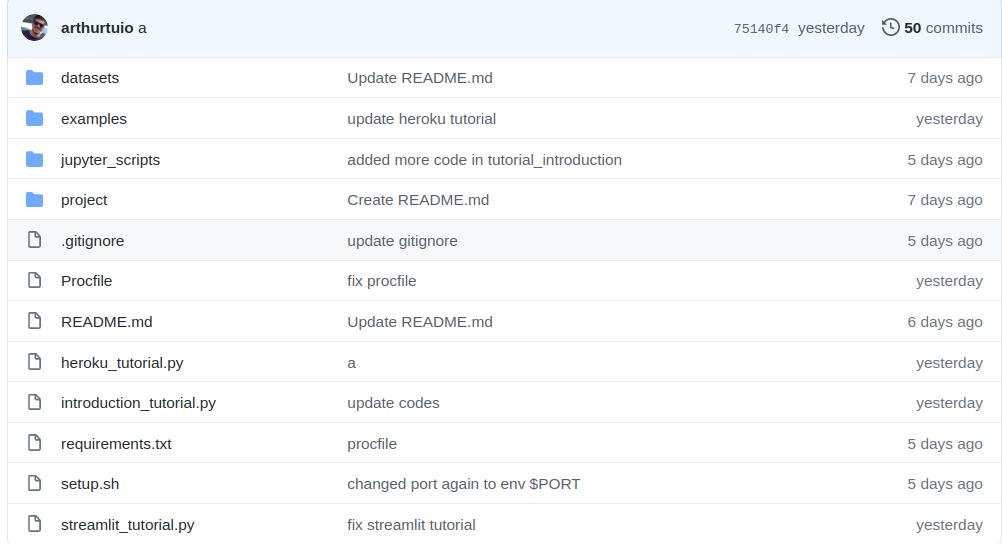
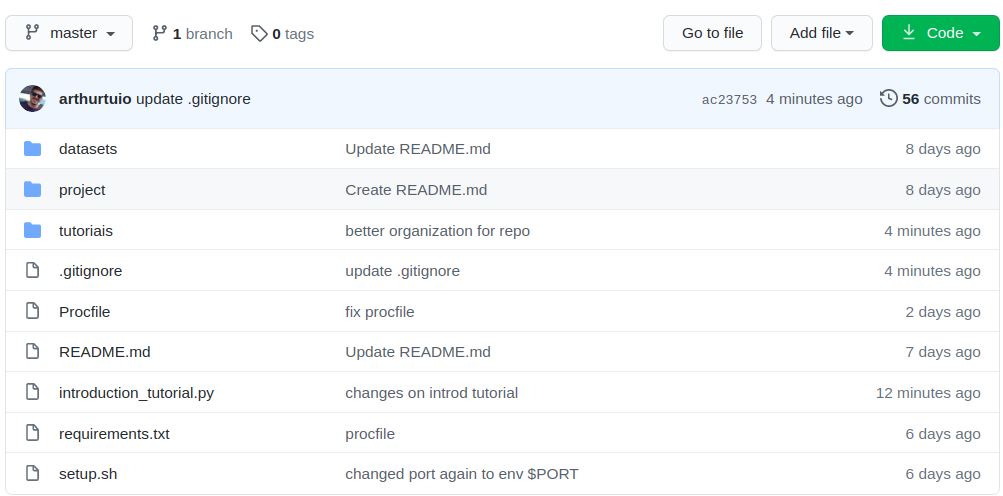
update tutorials

diff --git a/tutoriais/examples/portugues/heroku/config_github_repo.py b/tutoriais/examples/portugues/heroku/config_github_repo.py
@@ -1,7 +1,7 @@
 import streamlit as st
 
 global images_folder
-images_folder = "/tutoriais/examples/portugues/heroku/imagens/"
+images_folder = "examples/portugues/heroku/imagens/"
 
 
 class ConfigGithubRepo:
@@ -13,25 +13,103 @@ class ConfigGithubRepo:
             Bom, você já deve imaginar que usaremos de base este repo aqui: 
             https://github.com/arthurtuio/streamlit-heroku-python-br2020
             
-            **Os arquivos que são necessários para o deploy do heroku são:**
-            - Procfile
-            - setup.sh
-            - O código python (`.py`) que contém a aplicação do streamlit
-            que você deseja que vá para o ar.
-            
-            É sobre cada um destes arquivos que iremos falar na sequência:
+            ________
         """)
+        st.image(
+            image=images_folder + "repo-1.png",
+            caption="Os arquivos do repo",
+            width=800
+        )
+
+        st.markdown("""
+            Primeiro iremos falar das pastas, depois brevemente dos arquivos 
+            auxiliares do repo, que são:
+            - `.gitignore`
+            - `README.md`
+            - `requirements.txt`
+            
+            Após isso falaremos muito brevemente sobre o `introduction_tutorial.py`.
+            
+            Por fim, dos arquivos que o Heroku irá usar, que são:
+            - `Procfile`
+            - `setup.sh`
+            
+            _____________
+        """)
+
+        lista_topicos = [
+            "Pastas: datasets, project e tutoriais",
+            "Arquivos auxiliares do repo: .gitignore, README e requirements.txt",
+            "introduction_tutorial.py",
+            "Heroku: Procfile",
+            "Heroku: setup.sh"
+        ]
 
         passo_tutorial = st.selectbox(
             "Selecione o arquivo que deseja entender",
-            ("Procfile", "setup.sh", "Código em Python da aplicação")
+            lista_topicos
         )
 
-        if passo_tutorial == "Procfile":
+        if passo_tutorial == lista_topicos[0]:
+            self._understanding_folders()
+
+        elif passo_tutorial == lista_topicos[1]:
+            self._understanding_aux_files()
+
+        elif passo_tutorial == lista_topicos[2]:
+            self._understanding_intro_tutorial()
+
+        elif passo_tutorial == lista_topicos[3]:
             self._understanding_procfile()
 
-        elif passo_tutorial == "setup.sh":
+        elif passo_tutorial == lista_topicos[4]:
             self._understanding_setup_sh()
+
+    @staticmethod
+    def _understanding_folders():
+        st.markdown("""
+            ## Pastas do repo ##
+            
+            O que cada pasta significa:
+            
+            - datasets: É a pasta que armazena 3 tabelas, que poderão ser usadas na hora do desenvolvimento
+            do projeto;
+            
+            - project: Pasta criada para você adicionar o código do seu projeto depois!
+            
+            - tutoriais: Pasta que armazena os tutoriais do Streamlit, Github e Heroku que foram apresentados,
+            e todos os arquivos auxiliares usados pelos mesmos.
+        """)
+
+    @staticmethod
+    def _understanding_aux_files():
+        st.markdown("""
+            ## Arquivos auxiliares ##
+            
+            O que cada arquivo significa:
+            
+            - `.gitignore`: Criamos este arquivo para fazer com que o github ignore arquivos. Muito útil
+            para não subirmos, por exemplo, a pasta do ambiente virtual que usamos localmente para o repo.
+            
+            - `README.md`: Arquivo que é aberto no github automaticamente, excelente para
+            descrever o repositório ou como realizar alguma configuração para o mesmo.
+            
+            - `requirements.txt`: Arquivo de texto que contém o nome de todas as bibliotecas necessárias para
+            a execução do conteúdo do repositório.
+        """)
+
+    @staticmethod
+    def _understanding_intro_tutorial():
+        st.markdown("""
+            ## introduction_tutorial.py ##
+
+            Esse arquivo, que é um script em Python, é o código que foi usado para criar este site:
+            - https://streamlit-heroku-python-br2020.herokuapp.com/
+            
+            De todos os arquivos deste repositório, este foi o escolhido, pois é a introdução
+            do tutorial que vai te ensinar a como fazer o mesmo com qualquer script python!
+
+        """)
 
     @staticmethod
     def _understanding_procfile():

diff --git a/tutoriais/examples/portugues/heroku/config_heroku_account.py b/tutoriais/examples/portugues/heroku/config_heroku_account.py
@@ -1,7 +1,7 @@
 import streamlit as st
 
 global images_folder
-images_folder = "tutoriais/examples/portugues/heroku/imagens/"
+images_folder = "examples/portugues/heroku/imagens/"
 
 
 class ConfigHerokuAccount:
